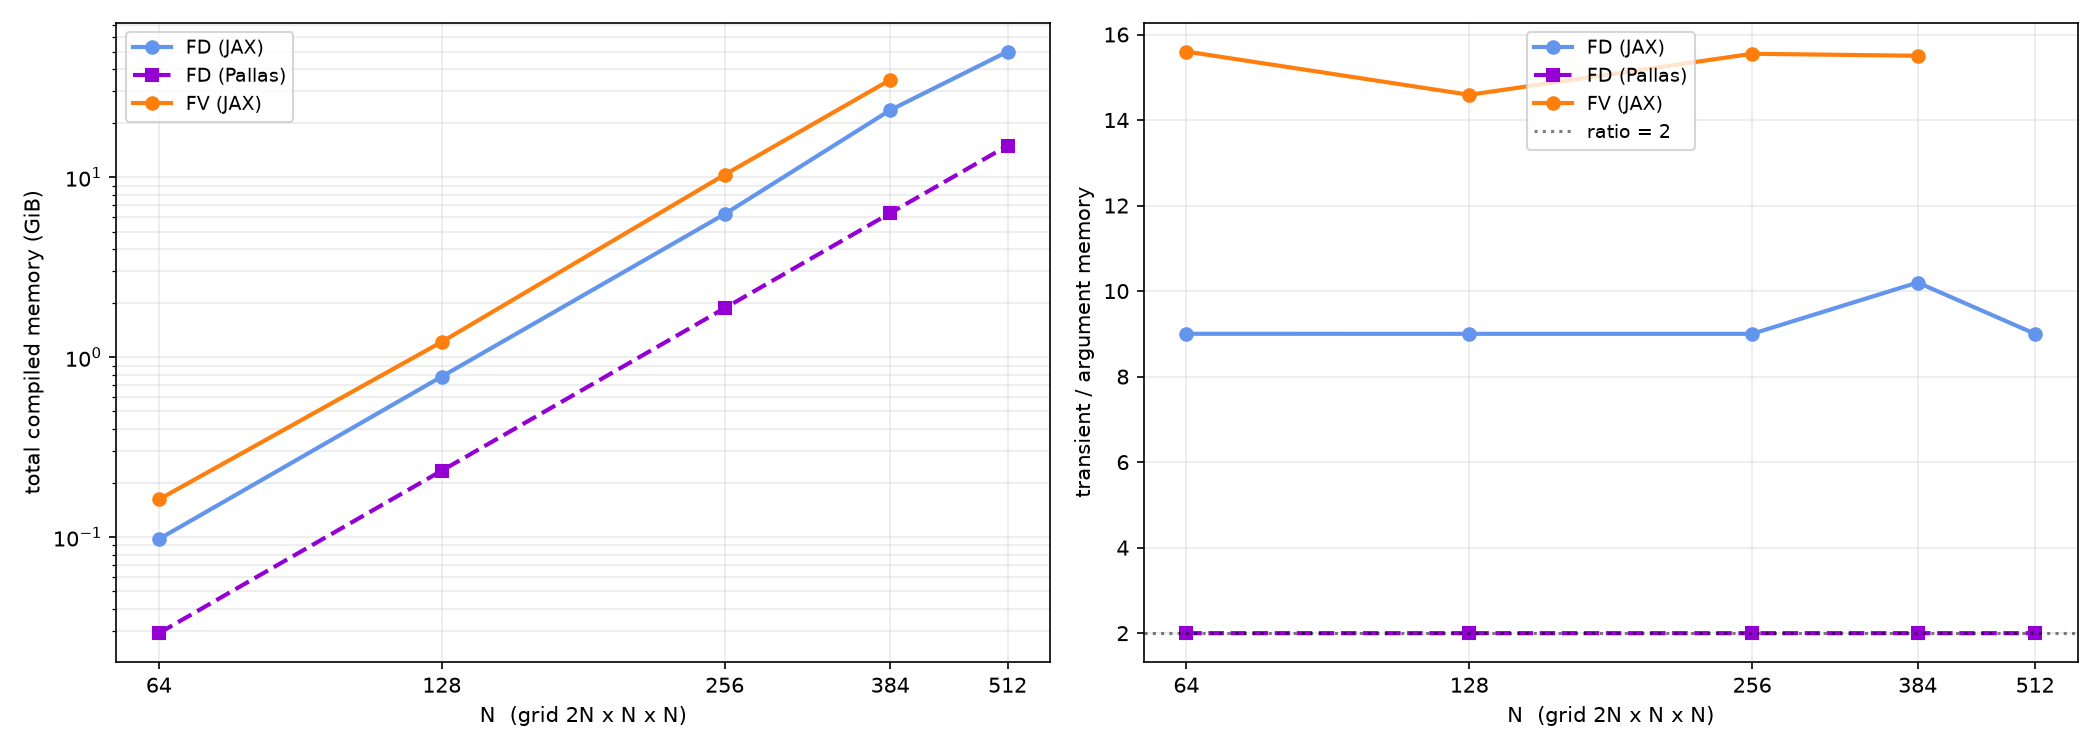
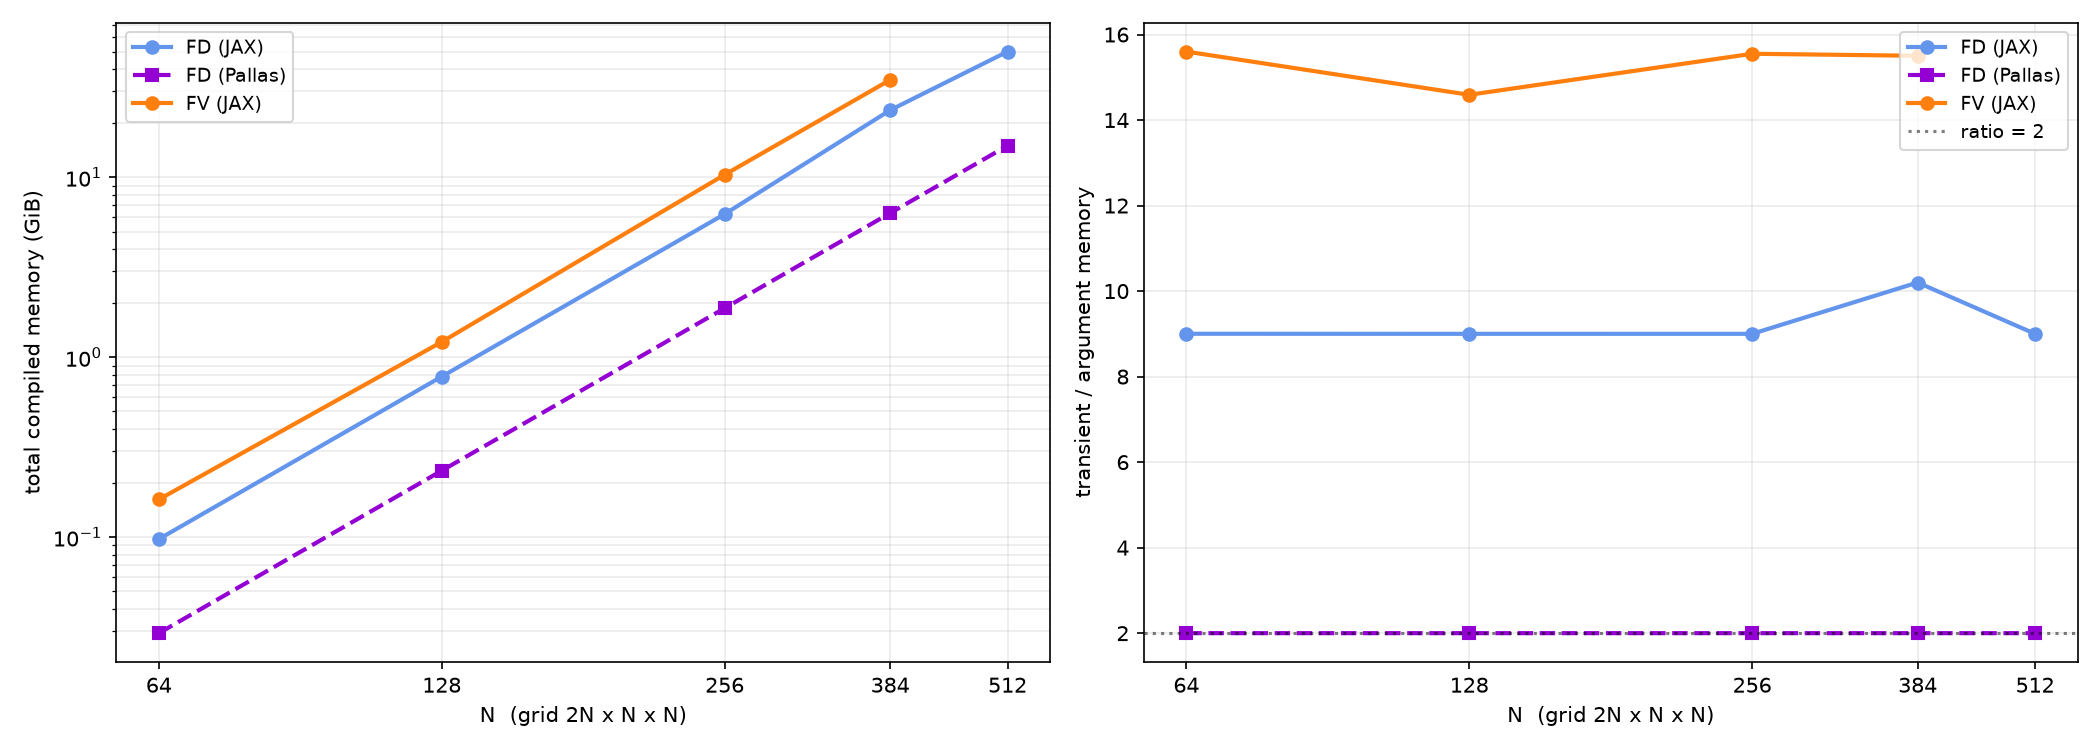
Memory plots: legend top-right on ratio panel; shrink strong-scaling figure

Changed region(s): [[0.7119, 0.0307, 0.8048, 0.184], [0.8976, 0.0307, 0.9905, 0.184]]

diff --git a/pytests/scaling_results/plot_scaling.py b/pytests/scaling_results/plot_scaling.py
@@ -256,7 +256,7 @@ def plot_strong_speedup_combined():
     g_style = {g: st for g, st in zip(
         Gs, [dict(marker="^", ls="-."), dict(marker="o", ls="-"),
              dict(marker="s", ls="--"), dict(marker="D", ls=":")])}
-    fig, ax = plt.subplots(figsize=STYLE["figsize"])
+    fig, ax = plt.subplots(figsize=(6, 4.2))
     all_N = set()
     for _f, setup, gpu, Gi, N, series in runs:
         if setup == "mhd" and Gi == 4:
@@ -316,7 +316,7 @@ def plot_single_gpu_memory():
         a2.axhline(2.0, color="k", ls=":", alpha=0.5, label="ratio = 2")
         a2.set_xlabel("N  (grid 2N x N x N)")
         a2.set_ylabel("transient / argument memory")
-        a2.grid(True, alpha=STYLE["grid_alpha"]); a2.legend(fontsize=9)
+        a2.grid(True, alpha=STYLE["grid_alpha"]); a2.legend(fontsize=9, loc="upper right")
         _set_n_ticks(a1, seen_N); _set_n_ticks(a2, seen_N)
         fig.tight_layout()
         out = os.path.join(FIG, f"single_gpu_{setup}_memory_breakdown.png")
